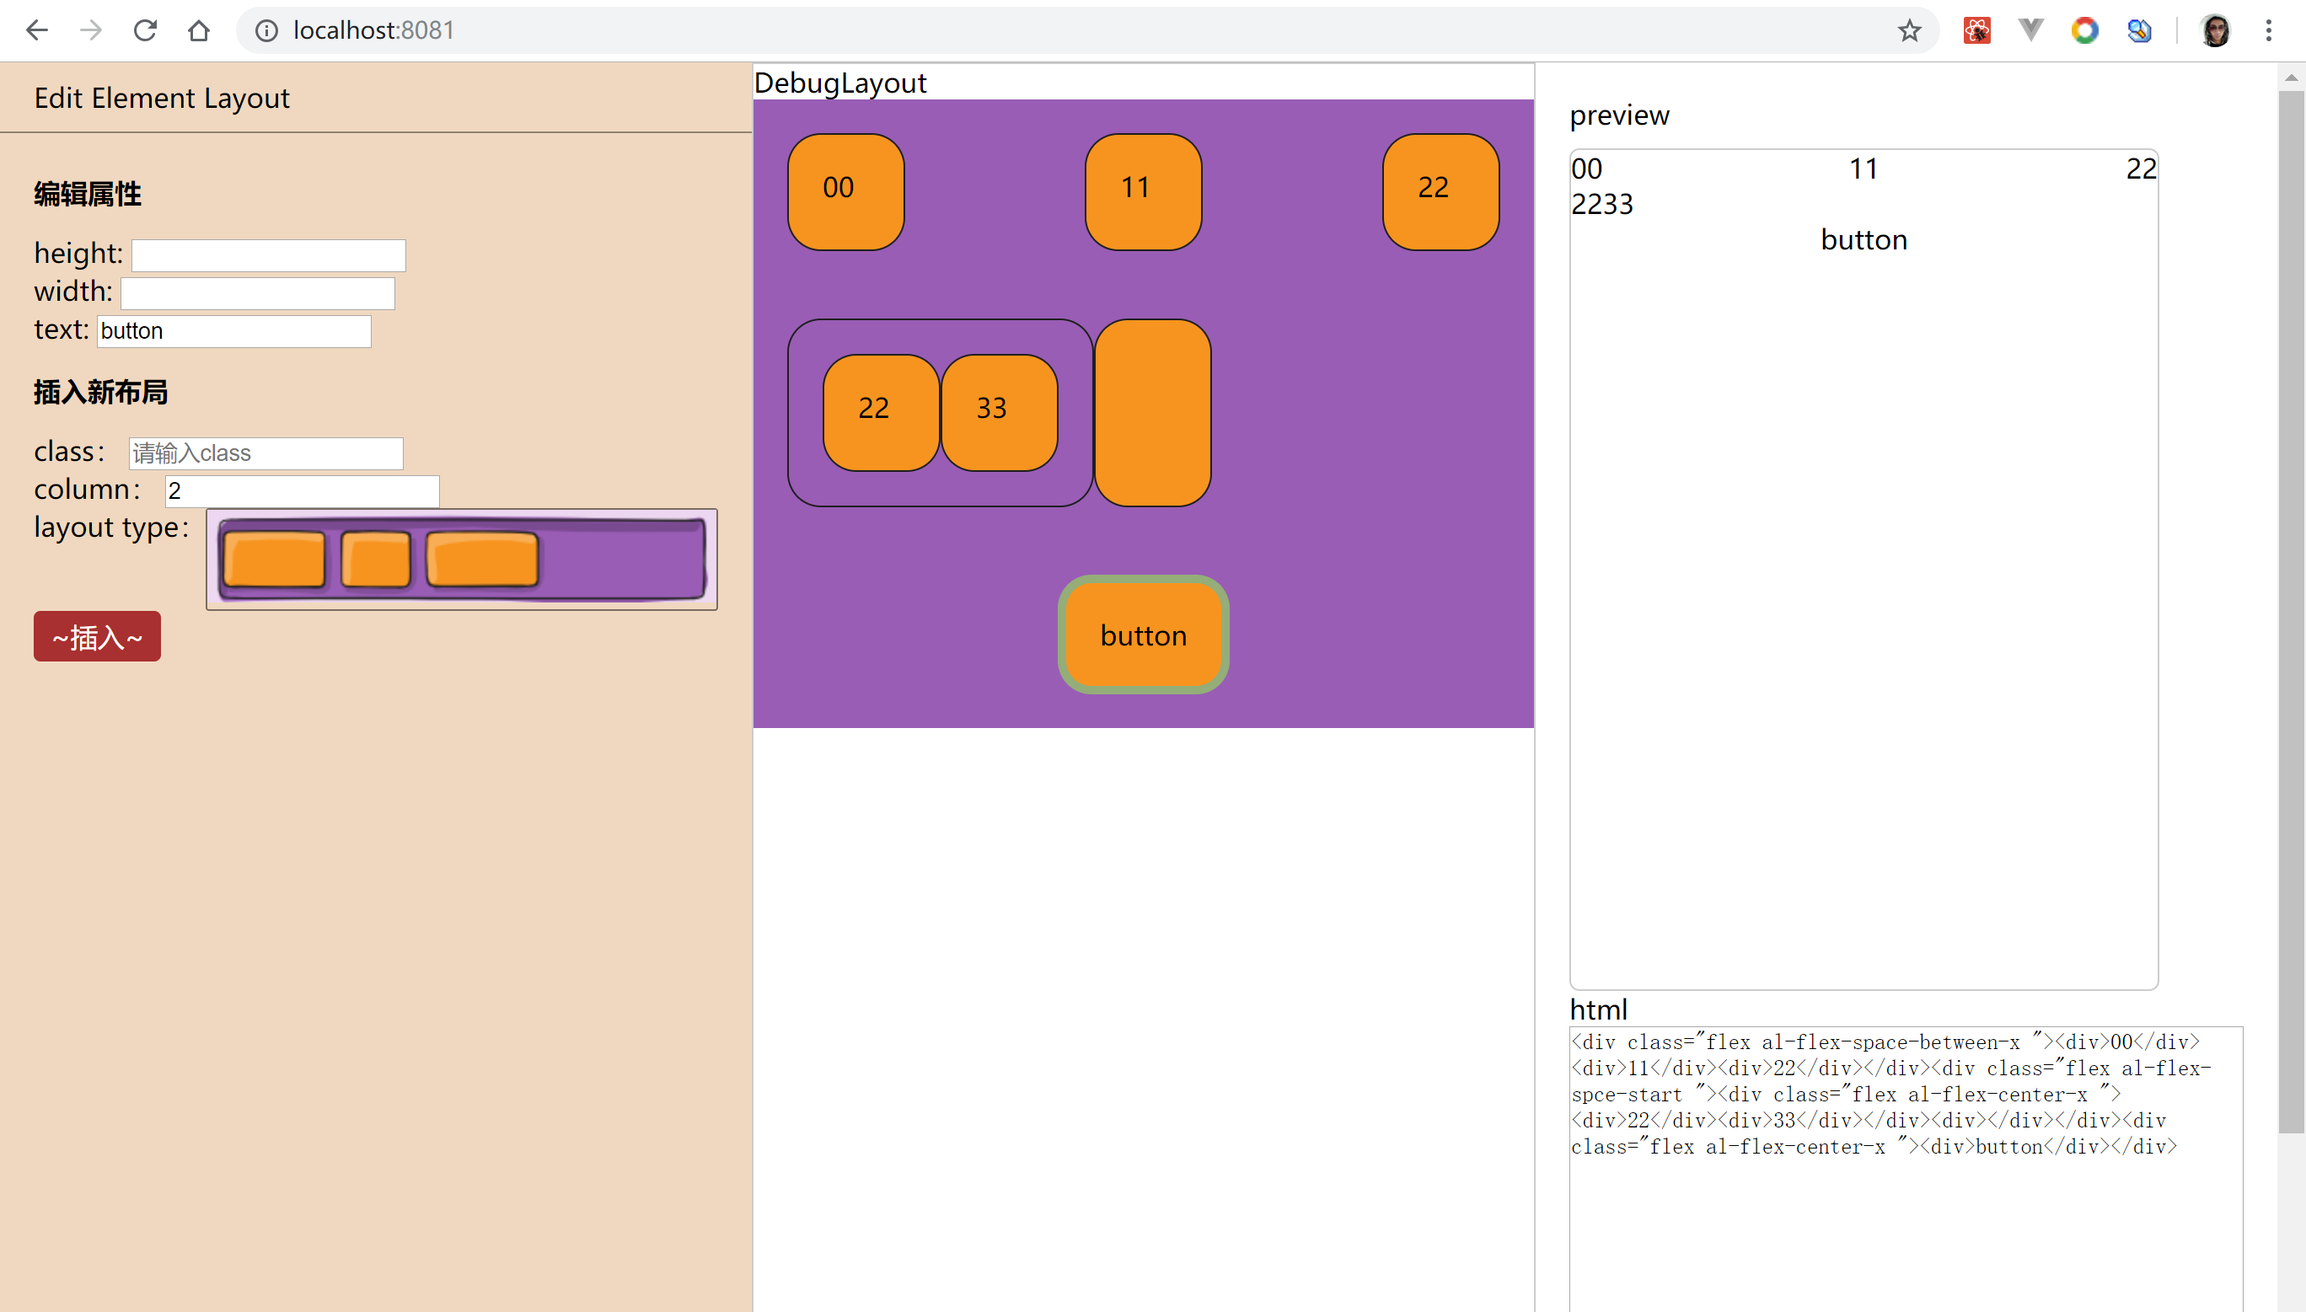
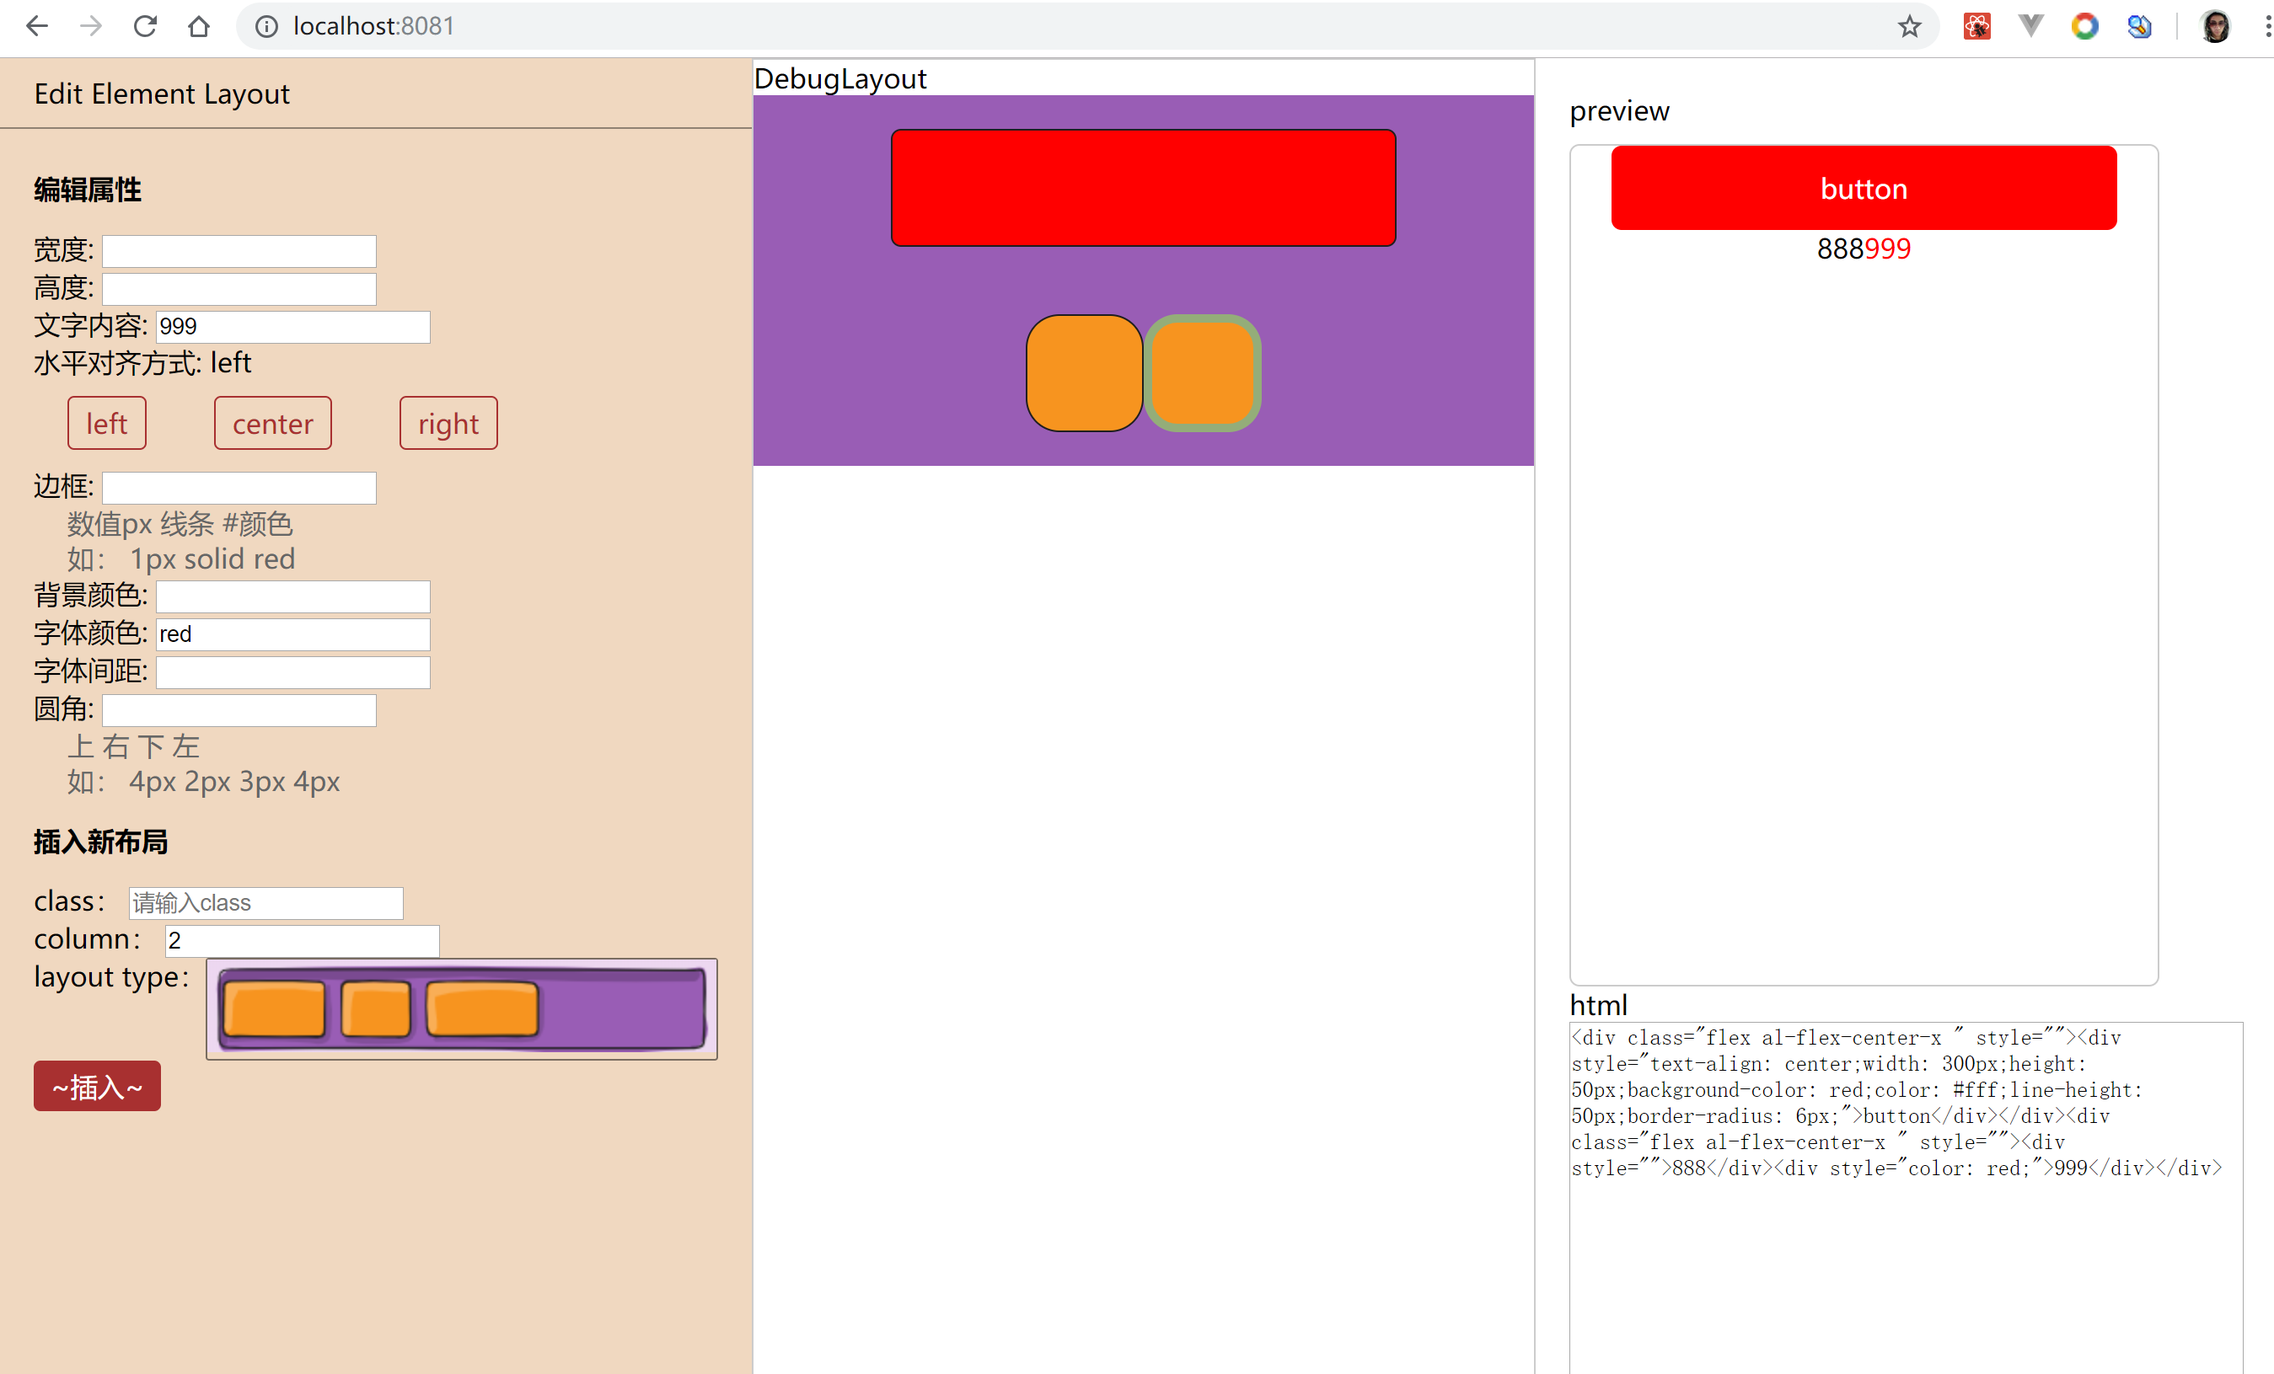
feat: attribute edit

diff --git a/src/components/handleColumn.tsx b/src/components/handleColumn.tsx
@@ -20,6 +20,7 @@ interface Tprops extends Tstate {
     dispatch: Dispatch
 }
 let inputOldTime: number = 0
+let inputKey: string = ''
 const _HandleColumn = (props: Tprops) => {
     let layoutTypeSelected: selectListItem = layoutTypeList[0]
     let layoutColumn = '2'
@@ -49,11 +50,10 @@ const _HandleColumn = (props: Tprops) => {
         let rowASTItemDefault: TRowAST = {
             tag: 'div',
             css: [],
-            style: [],
+            style: {},
             innerText: '',
             children: []
         }
-        let ast: TRowAST[]
 
         rowAst = []
         for (let i = 0; i < columnNumber; i++) {
@@ -62,7 +62,7 @@ const _HandleColumn = (props: Tprops) => {
         return {
             tag: 'div',
             css: ['flex', layoutType, className],
-            style: [],
+            style: {},
             children: rowAst
         }
     }
@@ -97,38 +97,204 @@ const _HandleColumn = (props: Tprops) => {
                         ast: dataAst
                     })
                 }
+                let textAlignSelect = (align: string) => () => {
+                    setTreeItemDataValue({
+                        ...selectItem,
+                        style: {
+                            ...selectItem.style,
+                            ['textAlign']: align
+                        }
+                    })
+                }
                 class EditAttribute extends Component {
-                    inputRef: any;
+                    inputText: any;
+                    inputHeight: any;
+                    inputWidth: any;
+                    inputBorder: any;
+                    inputBackground: any;
+                    inputColor: any;
+                    inputLineHeight: any;
+                    inputBackRadius: any;
+                    inputPadding: any;
+                    inputMargin: any;
                     constructor(props: any){
                         super(props)
-                        this.inputRef = React.createRef()
+                        this.inputText = React.createRef()
+                        this.inputHeight = React.createRef()
+                        this.inputWidth = React.createRef()
+                        this.inputBorder = React.createRef()
+                        this.inputBackground = React.createRef()
+                        this.inputColor = React.createRef()
+                        this.inputLineHeight = React.createRef()
+                        this.inputBackRadius = React.createRef()
+                        this.inputPadding = React.createRef()
+                        this.inputMargin = React.createRef()
                     }
-                    // shouldComponentUpdate(): boolean {
-                    //     return (inputOldTime && +new Date() < inputOldTime + 1000)
-                    //         ? false
-                    //         : true
-                    // }
                     componentDidMount () {
-                        (inputOldTime && +new Date() < inputOldTime + 1000) && this.inputRef.current.focus()
-                    }                   
+                        if(inputOldTime && +new Date() < inputOldTime + 1000){
+                            switch(inputKey){
+                                case 'inputText': {
+                                    this.inputText.current.focus()
+                                    break
+                                }
+                                case 'inputHeight': {
+                                    this.inputHeight.current.focus()
+                                    break
+                                }
+                                case 'inputWidth': {
+                                    this.inputWidth.current.focus()
+                                    break
+                                }
+                                case 'inputBorder': {
+                                    this.inputBorder.current.focus()
+                                    break
+                                }
+                                case 'inputBackground': {
+                                    this.inputBackground.current.focus()
+                                    break
+                                }
+                                case 'inputColor': {
+                                    this.inputColor.current.focus()
+                                    break
+                                }
+                                case 'inputLineHeight': {
+                                    this.inputLineHeight.current.focus()
+                                    break
+                                }
+                                case 'inputBackRadius': {
+                                    this.inputBackRadius.current.focus()
+                                    break
+                                }
+                                case 'inputPadding': {
+                                    this.inputPadding.current.focus()
+                                    break
+                                }
+                                case 'inputMargin': {
+                                    this.inputMargin.current.focus()
+                                    break
+                                }
+                            }
+                        }
+                    }
                     render(){
                         return <div>
                             <div className="group-title-name">编辑属性</div>
-                            <div>height: <input onChange={(e: any) => {
+                            <div>宽度: <input ref={this.inputWidth} defaultValue={selectItem.style.width ? selectItem.style.width.replace('px', '') : ''} onChange={(e: any) => {
                                 let v = e.target.value
-                                console.log(v)
+                                inputOldTime = +new Date()
+                                inputKey = 'inputWidth'
+                                setTreeItemDataValue({
+                                    ...selectItem,
+                                    style: {
+                                        ...selectItem.style,
+                                        'width': `${v}px`
+                                    }
+                                })
                             }} /></div>
-                            <div>width: <input defaultValue="" /></div>
-                            <div>text: <input ref={this.inputRef} defaultValue={selectItem.innerText} onChange={(e: any) => {
+                            <div>高度: <input ref={this.inputHeight} defaultValue={selectItem.style.height ? selectItem.style.height.replace('px', '') : ''} onChange={(e: any) => {
+                                let v = e.target.value
+                                inputOldTime = +new Date()
+                                inputKey = 'inputHeight'
+                                setTreeItemDataValue({
+                                    ...selectItem,
+                                    style: {
+                                        ...selectItem.style,
+                                        'height': `${v}px`
+                                    }
+                                })
+                            }} /></div>
+                            <div>文字内容: <input ref={this.inputText} defaultValue={selectItem.innerText} onChange={(e: any) => {
                                 let textValue = e.target.value
                                 inputOldTime = +new Date()
+                                inputKey = 'inputText'
                                 setTreeItemDataValue({
                                     ...selectItem,
                                     innerText: textValue
                                 })
                                 e.target.focus()
-                                // e.onfocus()
                             }} /></div>
+                            <div>
+                                <span>水平对齐方式: </span>
+                                <span>{selectItem.style['textAlign'] || 'left'}</span>
+                                <div className="select-button">
+                                    <span className="item" onClick={textAlignSelect('left')}>left</span>
+                                    <span className="item" onClick={textAlignSelect('center')}>center</span>
+                                    <span className="item" onClick={textAlignSelect('right')}>right</span>
+                                </div>
+                            </div>
+                            <div>边框: <input ref={this.inputBorder} defaultValue={selectItem.style.border || ''} onChange={(e: any) => {
+                                let v = e.target.value
+                                inputOldTime = +new Date()
+                                inputKey = 'inputBorder'
+                                setTreeItemDataValue({
+                                    ...selectItem,
+                                    style: {
+                                        ...selectItem.style,
+                                        'border': v
+                                    }
+                                })
+                            }} />
+                                <div className="otherInfo">
+                                    <p>数值px 线条 #颜色</p>
+                                    <p>如： 1px solid red</p>
+                                </div>
+                            </div>
+                            <div>背景颜色: <input ref={this.inputBackground} defaultValue={selectItem.style.backgroundColor || ''} onChange={(e: any) => {
+                                let v = e.target.value
+                                inputOldTime = +new Date()
+                                inputKey = 'inputBackground'
+                                setTreeItemDataValue({
+                                    ...selectItem,
+                                    style: {
+                                        ...selectItem.style,
+                                        'backgroundColor': v
+                                    }
+                                })
+                            }} />
+                            </div>
+                            <div>字体颜色: <input ref={this.inputColor} defaultValue={selectItem.style.color || ''} onChange={(e: any) => {
+                                let v = e.target.value
+                                inputOldTime = +new Date()
+                                inputKey = 'inputColor'
+                                setTreeItemDataValue({
+                                    ...selectItem,
+                                    style: {
+                                        ...selectItem.style,
+                                        'color': v
+                                    }
+                                })
+                            }} />
+                            </div>
+                            <div>字体间距: <input ref={this.inputLineHeight} defaultValue={selectItem.style.lineHeight ? selectItem.style.lineHeight.replace('px', '') : ''} onChange={(e: any) => {
+                                let v = e.target.value
+                                inputOldTime = +new Date()
+                                inputKey = 'inputLineHeight'
+                                setTreeItemDataValue({
+                                    ...selectItem,
+                                    style: {
+                                        ...selectItem.style,
+                                        'lineHeight': `${v}px`
+                                    }
+                                })
+                            }} />
+                            </div>
+                            <div>圆角: <input ref={this.inputBackRadius} defaultValue={selectItem.style.borderRadius || ''} onChange={(e: any) => {
+                                let v = e.target.value
+                                inputOldTime = +new Date()
+                                inputKey = 'inputBackRadius'
+                                setTreeItemDataValue({
+                                    ...selectItem,
+                                    style: {
+                                        ...selectItem.style,
+                                        'borderRadius': v
+                                    }
+                                })
+                            }} />
+                            <div className="otherInfo">
+                                <p>上 右 下 左</p>
+                                <p>如： 4px 2px 3px 4px</p>
+                            </div>
+                            </div>
                         </div>
                     }
                 }

diff --git a/src/components/utils.ts b/src/components/utils.ts
@@ -1,10 +1,5 @@
-interface TRowAST {
-    tag: string,
-    css: string[],
-    style: any[],
-    innerText?: string,
-    children: TRowAST[]
-}
+import {TRowAST} from '../types/index'
+
 interface TcreaterHtml {
     view: string
 }
@@ -17,10 +12,20 @@ interface TdelectTreeData {
     path: number[],
     childrenName: string
 }
+var getSTyleStr = (o: any): string => {
+	var str = ""
+	for(let e of Object.keys(o)){
+        let key = e
+        key = key.replace(/([A-Z])/g,"-$1").toLowerCase()
+		str += `${key}: ${o[e]};`
+	}
+	return str
+}
 
 let createTag = (item: TRowAST, inner?: string): string => {
     let cssStr: string = item.css.length > 0 ? ` class="${item.css.join(' ')}"`
         : ''
+    let styleStr: string = getSTyleStr(item.style)
     let childrenHtml: string
     if (item.children.length > 0) {
         childrenHtml = item.children.map(item => {
@@ -29,7 +34,7 @@ let createTag = (item: TRowAST, inner?: string): string => {
     } else {
         childrenHtml = inner || ''
     }
-    return `<${item.tag}${cssStr}>${childrenHtml}</${item.tag}>`
+    return `<${item.tag}${cssStr} style="${styleStr}">${childrenHtml}</${item.tag}>`
 }
 
 export const createHtml = (rowInfo: TRowAST[]): TcreaterHtml => {

diff --git a/src/style.scss b/src/style.scss
@@ -59,6 +59,22 @@ $color-main: #A83030;
         .inner{
             padding: 0px 20px;
         }
+        .select-button{
+            .item{
+                display: inline-block;
+                line-height: 30px;
+                padding: 0 10px;
+                border-radius: 4px;
+                cursor: pointer;
+                color: $color-main;
+                border: 1px solid;
+                margin: 10px 20px;
+            }
+        }
+        .otherInfo{
+            padding-left: 20px;
+            color: #666
+        }
     }
     .preview{
         padding: 20px;

diff --git a/src/components/debugLayout.tsx b/src/components/debugLayout.tsx
@@ -28,9 +28,9 @@ const _DebugLayout = (props: Tprops) => {
                 className={`${e.css.join(' ')}${props.selectRowPath.join(',') === itemPath.join(',') && ' item-selected-status'}`}
                 onClick={(e: MouseEvent) => selectRowDiv(e, itemPath)}
                 key={index}
+                style={e.style}
             >{
-                    e.children.length > 0 ? randerTree(e.children, itemPath) :
-                        (e.innerText || '')
+                    e.children.length > 0 ? randerTree(e.children, itemPath) : ''
                 }</div>
         })
     }

diff --git a/src/types/index.ts b/src/types/index.ts
@@ -1,7 +1,7 @@
 export interface TRowAST {
     tag: string,
     css: string[],
-    style: any[],
+    style: any,
     innerText?: string,
     children: TRowAST[]
 }

diff --git a/README.md b/README.md
@@ -16,9 +16,7 @@
 
 |TODO LIST:|
 |:--------:|
-|属性编辑|
 |HTML格式化|
 |CSS下载|
 |完善布局方式|
-|开源自己的布局|
 |搜索布局|
